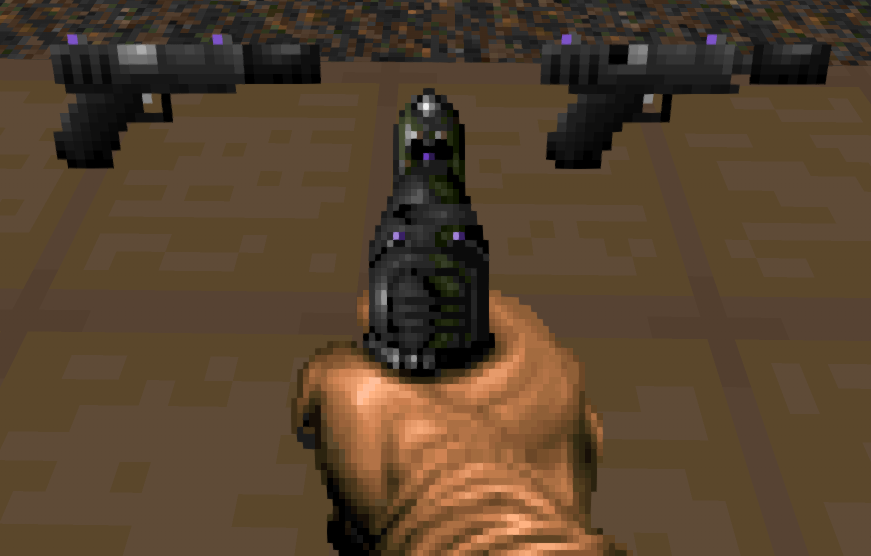
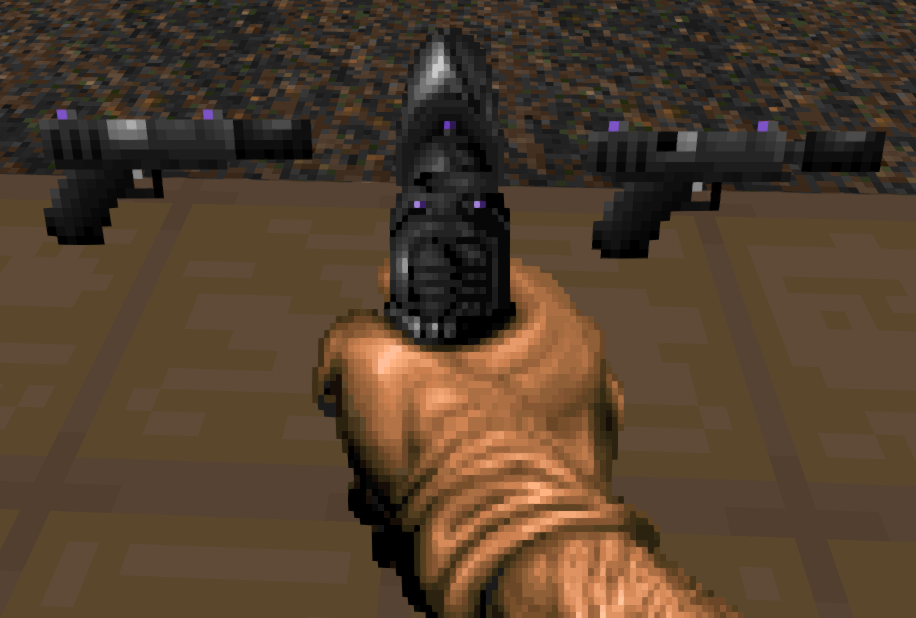
Update Hush Puppy Replacement Sprites
The new sprites are based on the recolored Glock18 by Toast, along with the new silencer.
It's also worth noting that the D and E frames have been removed as the current weapon class doesn't utilize them.

diff --git a/readme.md b/readme.md
@@ -35,12 +35,15 @@ _Requires [Radtech Weapons Pack](https://github.com/swampyrad/RadTechWeaponsPack
 The pistol has been swapped out with Glock18 sprites, then recolored to match thematically.  The "Quick Swap" set of sprites have the pistol correctly flipped, as well.
 
 ![pistol](./screenshots/pistol.png)  
+_Credits:  
+HUD Sprites: Toast, JoeyTD & Minigunner ([Realm667](https://www.realm667.com/en/armory-mainmenu-157-97317/doom-style-mainmenu-158-94349/996-glock-18))  
+Pickup Sprites: Toast  
+Fireselect Graphic: Combine Kegan_  
+
 ![hush-puppy](./screenshots/hush-puppy.png)  
 _Credits:  
 HUD Sprites: Toast, JoeyTD & Minigunner ([Realm667](https://www.realm667.com/en/armory-mainmenu-157-97317/doom-style-mainmenu-158-94349/996-glock-18))  
-Silencer: Swampyrad  
-Pickup Sprites: Toast  
-Fireselect Graphic: Combine Kegan_
+Pickup Sprites: Toast_  
 
 #### Revolvers
 _Scoped Revolver requires [Peppergrinder](https://gitlab.com/hdiscord-saltmines/hd-peppergrinder)_
